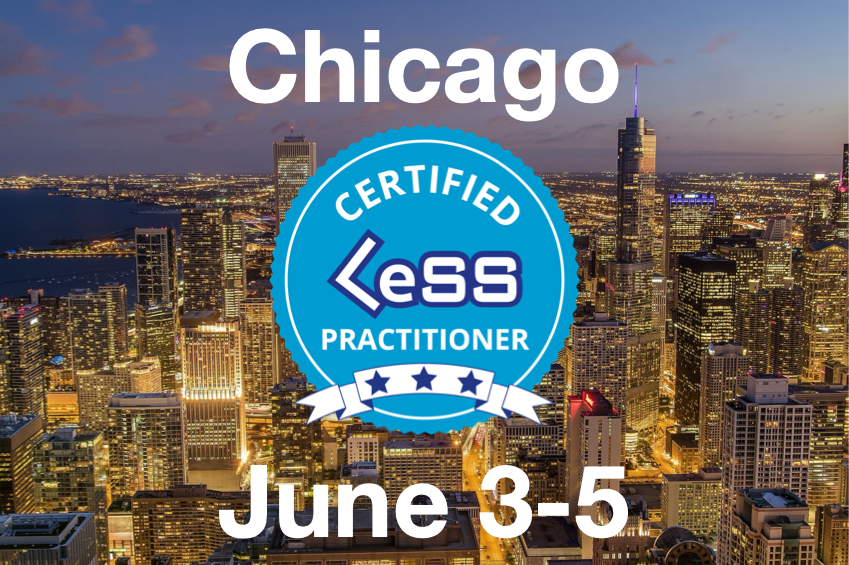
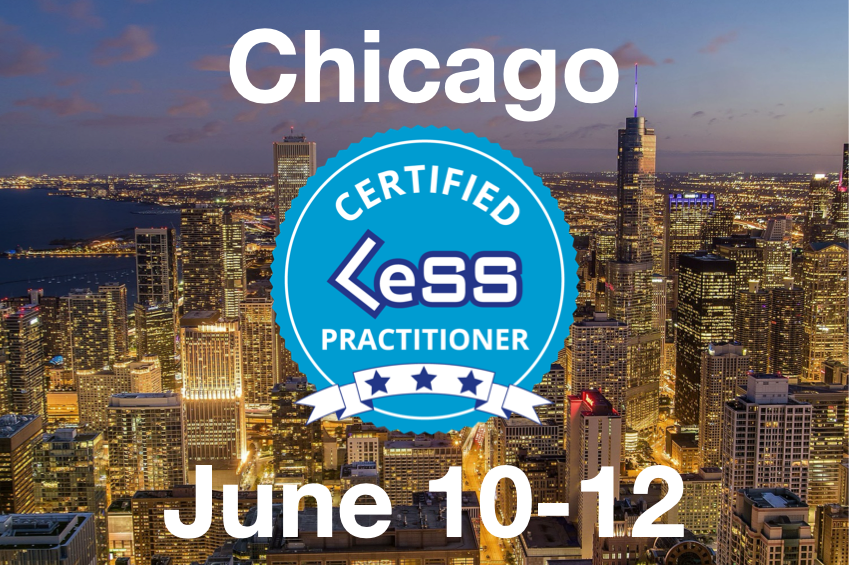
updated Chicago Summer 2025 to go live

Changed region(s): [[0.1837, 0.8124, 0.6431, 0.9628], [0.6737, 0.8124, 0.8269, 0.9628]]

diff --git a/clp/chicago_summer_2025.md b/clp/chicago_summer_2025.md
@@ -1,12 +1,12 @@
 ---
-title: Chicago Certified LeSS Practitioner June 3-5, 2025
+title: Chicago Certified LeSS Practitioner June 10-12, 2025
 image: /assets/images/clp/ChicagoCLPWebsitePageHeaderNoDates.png
-ogimage: /assets/images/clp/ChicagoCLPWebsitePageHeaderJune3to5_OgImage.png
+ogimage: /assets/images/clp/ChicagoCLPWebsitePageHeaderJune10to12_OgImage.png
 author: James
 layout: book
 trainingevent:
-  startDate: "2025-06-03T08:30-06:00"
-  endDate: "2025-06-05T18:00-06:00"
+  startDate: "2025-06-10T08:30-06:00"
+  endDate: "2025-06-12T18:00-06:00"
   location:
     name: "TBD"
     address:
@@ -31,7 +31,7 @@ trainingevent:
     url: "https://agilecarpentry.com"
 ---
 
-<a class="wx-button" href="https://agilecarpentry.ticketspice.com/chicago-summer-2025" style="background:rgba(36,36,36,1);color:white;padding:10px 20px;text-decoration:none;font-weight:bold;" target="_blank">June 3-5: Get Tickets</a>
+<a class="wx-button" href="https://agilecarpentry.ticketspice.com/chicago-summer-2025" style="background:rgba(36,36,36,1);color:white;padding:10px 20px;text-decoration:none;font-weight:bold;" target="_blank">June 10-12: Get Tickets</a>
 
 {% include_relative _includes/course_agenda.md %}
 
@@ -62,24 +62,32 @@ See the following pages for additional travel details:
 
 # Training Venue Details
 
-I fully expect the venue to be in the downtown Chicago area. This will ensure you can easily reach the venue from either airport on the L train without requiring an expensive taxi or sedan ride. 
+I have reserved a hospitality suite at [theWit Chicago](https://thewithotel.com/){:target="_blank"}, 201 N. State Street, Chicago IL 60601. 
 
-If you are instead traveling via Amtrak, you will arrive downtown at Amtrak Union Station. This will put you within a short walk, short L train ride, or a five minute Uber ride of any venue within the the downtown area.
+The hospitality suite will provide enough event capacity to support the first five or six attendees, at which point I will cancel the hospitality suite and book a larger nearby event space.
 
-Based on previous event venue research, I expect the nicest venues with the best meeting space and hotel room pricing will be found near the northern end of the loop, or somewhere along the magnificant mile.
+There is a significant chance any larger event space will be outside of TheWit. I therefore suggest you ensure any hotel reservations you make at TheWit can be canceled without penalty. 
 
-Safety is an important concern in any major city, Chicago is no exception. Rest assured I will only pick areas and venues in which my wife would feel safe.
+Hotel room prices in downtown Chicago are going up quickly. Therefore, it still makes sense to reserve your hotel room early, just make sure you can cancel and relocate if needed.
+
+TheWit has some very nice windowed event spaces, which are much better than the dark windowless event spaces found in a lot of the other 4 and 5 star Chicago hotels. If all goes well, larger event space will still be available at TheWit by the time I am able to justify contractly binding it. If not, there are a large number of backup options.
+
+Taking the Blue Line on the elevated train from Chicago O'Hare Airport (ORD) to the Clark/Lake station will put you within two blocks of TheWit Hotel.
+
+If you are traveling via Amtrak, you will arrive downtown at Amtrak Union Station. This will put you within a long walk, short L train ride, or a five minute Uber ride of TheWit.
 
 
 # Meals
 
-Lunch will be provided. There is a good chance we will walk to lunch at pre-arranged table service restaurants. This will provide a better social experience for everyone, and allow us to spend some time outside of the event space.
+Lunch will be arranged, but will not necessarily included in the price of course until it becomes viable to do so. This helps to ensure I can run the course at as low of a break-even attendee threshold as possible.
 
-Evening dinners are not included in the cost of the course. During class, I suspect we will end up organizing evening dinners most nights.
+We will most likely be walking to pre-arranged lunches at nearby table service restaurants. This will provide a better social experience for everyone, and allow us to spend some time outside of the event space.
+
+Most people in attendance tend to be traveling on company expense reports. The ability to provide assurance the course will reach viablity sooner tends to be more important to attendees than whether or not they will need to have their employer pay for lunch.
 
 # Tickets
 
-<a class="wx-button" href="https://agilecarpentry.ticketspice.com/chicago-summer-2025" style="background:rgba(36,36,36,1);color:white;padding:10px 20px;text-decoration:none;font-weight:bold;" target="_blank">June 3-5: Get Tickets</a>
+<a class="wx-button" href="https://agilecarpentry.ticketspice.com/chicago-summer-2025" style="background:rgba(36,36,36,1);color:white;padding:10px 20px;text-decoration:none;font-weight:bold;" target="_blank">June 10-12: Get Tickets</a>
 
 
 

diff --git a/_posts/2023-09-17-learning-about-less.md b/_posts/2023-09-17-learning-about-less.md
@@ -89,4 +89,5 @@ If it makes sense, I can arrange a call with "Mitya" in my case study. I am grat
 # Upcoming Public Courses
 
 * [Dallas Certified LeSS Practitioner on February 4-6]({{site.baseurl}}/clp/dallas_spring_2025/){:target="_blank"}
+* [Chicago Certified LeSS Practitioner on June 10-12]({{site.baseurl}}/clp/chicago_summer_2025/){:target="_blank"}
 
